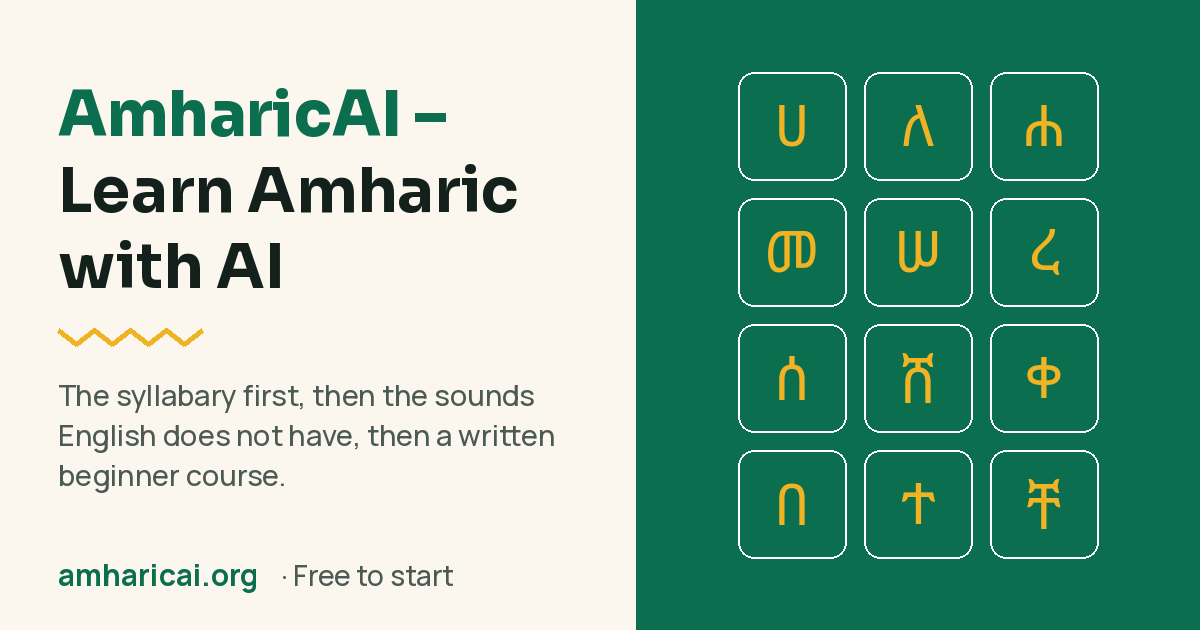
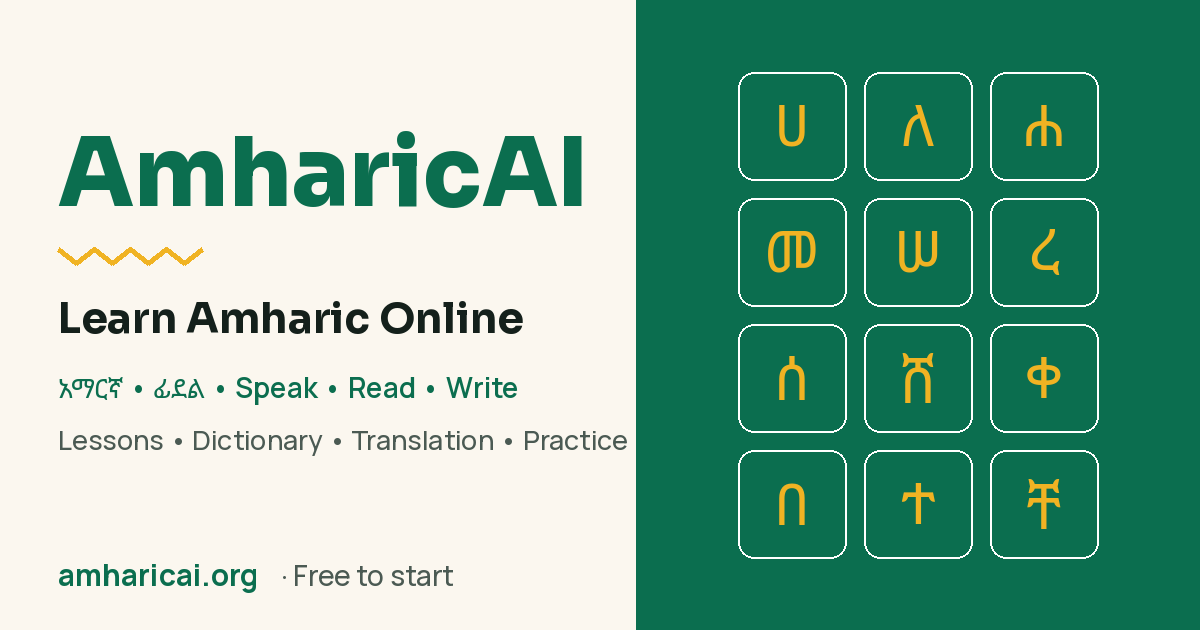
Rework the OG card's text hierarchy to say what AmharicAI is
The old card led with "AmharicAI – Learn Amharic with AI" as one wrapped
headline and a three-line sentence under it. At the size these are actually
seen — a ~260px Slack or Google preview — that read as five lines of similar
text with no entry point, and the one thing it needed to say first, the name,
was the same weight as the rest.

Now it steps down hard: AmharicAI alone at 100px in brand green, the amber
rule, "Learn Amharic Online" at 42, then the two supporting lines. The brand
size is measured to fit rather than hard-coded, so a longer name shrinks to
the measure instead of running into the green panel.

Adds the script/skill line "አማርኛ • ፊደል • Speak • Read • Write", which is why
draw_runs() exists: Pillow draws a whole string in one font and does no
fallback, so the Amharic in a Manrope line comes out as tofu boxes — silently,
in a PNG nobody opens before it ships. The line is split into script runs and
each is drawn in the face that has the glyphs, sharing a baseline.

Design, palette, typefaces and the ፊደል panel are unchanged.

Changed region(s): [[0.0308, 0.1206, 0.4933, 0.5429], [0.0308, 0.6032, 0.5242, 0.7841]]

diff --git a/packages/web/scripts/make-og-image.py b/packages/web/scripts/make-og-image.py
@@ -24,7 +24,9 @@ is where Debian's fonts-noto package puts it.
 
 Sizing note: 1200x630 is the size every scraper crops to, and text below about
 28px renders illegibly in a Slack or iMessage thumbnail, which is where most of
-these are actually seen. Nothing here is smaller than that.
+these are actually seen. Nothing here is smaller than 27px, and the two
+smallest lines are the two least important ones, so what a thumbnail softens
+first is the detail rather than the name.
 """
 
 from __future__ import annotations
@@ -59,8 +61,15 @@ W, H = 1200, 630
 # afterthought.
 FOLD = int(W * 0.53)
 
-TITLE = "AmharicAI – Learn Amharic with AI"
-SUBLINE = "The syllabary first, then the sounds English does not have, then a written beginner course."
+# The text, in the order it is read, largest first. Four runs and no more: a
+# scraper thumbnail is about 260px wide in a Slack sidebar, and every line
+# added past this takes size away from the brand rather than adding meaning.
+TITLE = "AmharicAI"
+SUBLINE = "Learn Amharic Online"
+# Mixed Ethiopic and Latin on one line, which is the whole reason
+# `draw_runs()` exists — see the note there.
+SCRIPT_LINE = "አማርኛ • ፊደል • Speak • Read • Write"
+OFFER_LINE = "Lessons • Dictionary • Translation • Practice"
 FOOTER_URL = "amharicai.org"
 FOOTER_NOTE = "Free to start"
 
@@ -119,6 +128,73 @@ def text_width(draw: ImageDraw.ImageDraw, s: str, font: ImageFont.FreeTypeFont) 
     return int(draw.textbbox((0, 0), s, font=font)[2])
 
 
+def is_ethiopic(ch: str) -> bool:
+    """Ethiopic block, plus its supplement and extended ranges."""
+    return "ሀ" <= ch <= "፿" or "ᎀ" <= ch <= "᎟" or "ⶀ" <= ch <= "⷟"
+
+
+def split_runs(s: str) -> list[tuple[str, bool]]:
+    """Break a string into consecutive runs of Ethiopic / not-Ethiopic."""
+    runs: list[tuple[str, bool]] = []
+    for ch in s:
+        eth = is_ethiopic(ch)
+        if runs and runs[-1][1] == eth:
+            runs[-1] = (runs[-1][0] + ch, eth)
+        else:
+            runs.append((ch, eth))
+    return runs
+
+
+def draw_runs(
+    draw: ImageDraw.ImageDraw,
+    xy: tuple[int, int],
+    s: str,
+    latin: ImageFont.FreeTypeFont,
+    ethiopic: ImageFont.FreeTypeFont,
+    colour: str,
+    measure_only: bool = False,
+) -> int:
+    """
+    Draw one line that mixes Amharic and Latin, and return its width.
+
+    Pillow renders a whole string in a single font and does no fallback: a
+    `ለ` drawn in Manrope comes out as a tofu box, silently, in a PNG nobody
+    opens before it ships. So the line is split into script runs and each run
+    is drawn in the face that actually has the glyphs, with the pen carried
+    across by the measured width of what came before.
+
+    The two faces are optically different sizes at the same nominal px —
+    Ethiopic sits larger — so the caller passes an already-shrunk Ethiopic
+    instance rather than the same size as the Latin one. Baselines are shared
+    by drawing both runs from the same y, which is what `anchor="ls"` gives.
+    """
+    x, y = xy
+    for run, eth in split_runs(s):
+        font = ethiopic if eth else latin
+        if not measure_only:
+            draw.text((x, y), run, font=font, fill=colour, anchor="ls")
+        x += int(draw.textlength(run, font=font))
+    return x - xy[0]
+
+
+def fit_font(
+    draw: ImageDraw.ImageDraw, s: str, path: Path, weight: int, limit: int, start: int
+) -> ImageFont.FreeTypeFont:
+    """
+    The largest size at or below `start` that keeps `s` on one line.
+
+    The brand word is the loudest thing on the card, so it is set as large as
+    the measure allows rather than at a number picked by eye — and if the word
+    is ever changed to a longer one, it shrinks to fit instead of running off
+    the fold into the green panel.
+    """
+    for size in range(start, 23, -2):
+        font = weighted(path, size, weight)
+        if draw.textlength(s, font=font) <= limit:
+            return font
+    return weighted(path, 24, weight)
+
+
 def wrap(
     draw: ImageDraw.ImageDraw, s: str, font: ImageFont.FreeTypeFont, limit: int
 ) -> list[str]:
@@ -154,7 +230,7 @@ def zigzag(
     draw.line(points, fill=colour, width=5, joint="curve")
 
 
-def render(title: str) -> Image.Image:
+def render(title: str, subline: str = SUBLINE) -> Image.Image:
     sora = google_font("Sora.ttf")
     manrope = google_font("Manrope.ttf")
     ethiopic = system_font("Noto Sans Ethiopic")
@@ -191,69 +267,92 @@ def render(title: str) -> Image.Image:
             fill=AMBER,
         )
 
-    # The headline. The brand token leads it in green and the rest is ink, so
-    # the card reads as the title without needing a separate wordmark.
+    # THE LEFT COLUMN, IN FOUR STEPS OF LOUDNESS
+    #
+    # The card has one job at thumbnail size: say who this is and what it is.
+    # So the brand is set as large as the measure allows and everything under
+    # it steps down hard — 100/42/28/27 rather than a gentle ramp, because a
+    # gentle ramp at 260px wide reads as four lines of the same grey text and
+    # the brand stops being the thing you see first.
+    #
+    #   AmharicAI                                    brand, green, as big as fits
+    #   ~~~~~~                                       the amber rule
+    #   Learn Amharic Online                         what it is, in ink
+    #   አማርኛ • ፊደል • Speak • Read • Write            the languages and the skills
+    #   Lessons • Dictionary • Translation • Practice what you get, muted
     pad = 58
     measure = FOLD - pad - 40
-    head_font = weighted(sora, 62, 700)
-    brand_font = weighted(sora, 62, 800)
 
-    # Split on the dash, whichever kind the title uses. The token before it is
-    # the brand; everything after is the claim.
-    dash = next((d for d in ("–", "—", "-") if d in title), None)
-    if dash:
-        brand, rest = (part.strip() for part in title.split(dash, 1))
-    else:
-        brand, rest = title.strip(), ""
+    brand = title.strip()
+    brand_font = fit_font(draw, brand, sora, 800, measure, 100)
+    sub_font = weighted(sora, 42, 700)
+    script_latin = weighted(manrope, 28, 600)
+    # Noto Sans Ethiopic runs optically larger than Manrope at the same px, so
+    # it is set a touch smaller to make the two halves of the line match.
+    script_eth = weighted(ethiopic, 27, 600)
+    offer_font = weighted(manrope, 27, 500)
 
-    head_lines: list[tuple[str, ImageFont.FreeTypeFont, str]] = [
-        (f"{brand} {dash}" if dash else brand, brand_font, GREEN)
-    ]
-    head_lines += [(line, head_font, INK) for line in wrap(draw, rest, head_font, measure)]
-
-    sub_font = weighted(manrope, 29, 500)
-    sub_lines = wrap(draw, SUBLINE, sub_font, measure)
+    sub_lines = wrap(draw, subline, sub_font, measure)
 
     # The stack is measured before anything is drawn, then centred in the space
     # above a reserved footer zone.
     #
     # This is the part worth keeping: laying it out by stepping a cursor down
-    # from a hand-picked start meant a title one line longer silently pushed
-    # the subline through the footer, and the only way to notice was to look at
-    # the PNG. Measure first and the overlap cannot happen — a longer title
-    # eats the slack, and if there is none left the guard below says so instead
-    # of writing a broken card.
-    HEAD_LEADING = 76
-    SUB_LEADING = 40
-    RULE_GAP, RULE_BAND, SUB_GAP = 22, 24, 26
+    # from a hand-picked start meant one line more silently pushing the bottom
+    # line through the footer, and the only way to notice was to look at the
+    # PNG. Measure first and the overlap cannot happen — a longer subline eats
+    # the slack, and if there is none left the guard below says so instead of
+    # writing a broken card.
+    BRAND_LEADING = brand_font.size + 16
+    SUB_LEADING = 54
+    RULE_GAP, RULE_BAND, SUB_GAP = 20, 24, 24
+    SCRIPT_GAP, SCRIPT_LEADING = 26, 34
+    OFFER_GAP, OFFER_LEADING = 20, 32
     FOOTER_ZONE = 104
 
     stack_h = (
-        len(head_lines) * HEAD_LEADING
+        BRAND_LEADING
         + RULE_GAP
         + RULE_BAND
         + SUB_GAP
         + len(sub_lines) * SUB_LEADING
+        + SCRIPT_GAP
+        + SCRIPT_LEADING
+        + OFFER_GAP
+        + OFFER_LEADING
     )
     top, bottom = 44, H - FOOTER_ZONE
     if stack_h > bottom - top:
         raise SystemExit(
-            f"Title {title!r} needs {stack_h}px of a {bottom - top}px column. "
-            "Shorten it, or drop the headline size in render()."
+            f"The text needs {stack_h}px of a {bottom - top}px column. "
+            "Shorten the subline, or drop a size in render()."
         )
 
     y = top + (bottom - top - stack_h) // 2
-    for text, font, colour in head_lines:
-        draw.text((pad, y), text, font=font, fill=colour)
-        y += HEAD_LEADING
+
+    draw.text((pad, y), brand, font=brand_font, fill=GREEN)
+    y += BRAND_LEADING
 
     y += RULE_GAP
     zigzag(draw, pad, y + RULE_BAND // 2, 148, 7, 18, AMBER)
     y += RULE_BAND + SUB_GAP
 
     for line in sub_lines:
-        draw.text((pad, y), line, font=sub_font, fill=MUTED)
+        draw.text((pad, y), line, font=sub_font, fill=INK)
         y += SUB_LEADING
+
+    # Both of the bottom two lines are drawn from their baseline, which is what
+    # keeps the Amharic and Latin runs of the script line sitting on the same
+    # line rather than each on its own box's top edge.
+    y += SCRIPT_GAP
+    draw_runs(
+        draw, (pad, y + SCRIPT_LEADING - 8), SCRIPT_LINE, script_latin, script_eth, GREEN
+    )
+    y += SCRIPT_LEADING
+
+    y += OFFER_GAP
+    draw.text((pad, y + OFFER_LEADING - 8), OFFER_LINE, font=offer_font, fill=MUTED, anchor="ls")
+    y += OFFER_LEADING
 
     # Footer, pinned to the bottom rather than following the text, so it sits
     # in the same place whatever the title does to the block above it.
@@ -273,7 +372,8 @@ def render(title: str) -> Image.Image:
 
 def main() -> int:
     ap = argparse.ArgumentParser(description=__doc__)
-    ap.add_argument("--title", default=TITLE, help="Headline; should match og:title.")
+    ap.add_argument("--title", default=TITLE, help="The brand word: the loudest line.")
+    ap.add_argument("--subline", default=SUBLINE, help="What it is, under the brand.")
     ap.add_argument("--out", default=str(OUT), help="Where to write the PNG.")
     ap.add_argument(
         "--check",
@@ -282,7 +382,7 @@ def main() -> int:
     )
     args = ap.parse_args()
 
-    img = render(args.title)
+    img = render(args.title, args.subline)
     out = Path(args.out)
 
     if args.check:
@@ -294,13 +394,23 @@ def main() -> int:
         same = hashlib.sha256(fresh).digest() == hashlib.sha256(current).digest()
         print(
             f"{'OK    ' if same else 'STALE '}{out.name} "
-            f"{'matches' if same else 'does not match'} title {args.title!r}"
+            f"{'matches' if same else 'does not match'} "
+            f"{args.title!r} / {args.subline!r}"
         )
         return 0 if same else 1
 
     out.parent.mkdir(parents=True, exist_ok=True)
     img.save(out, "PNG", optimize=True)
-    print(json.dumps({"wrote": str(out), "size": out.stat().st_size, "title": args.title}))
+    print(
+        json.dumps(
+            {
+                "wrote": str(out),
+                "size": out.stat().st_size,
+                "title": args.title,
+                "subline": args.subline,
+            }
+        )
+    )
     return 0
 
 
